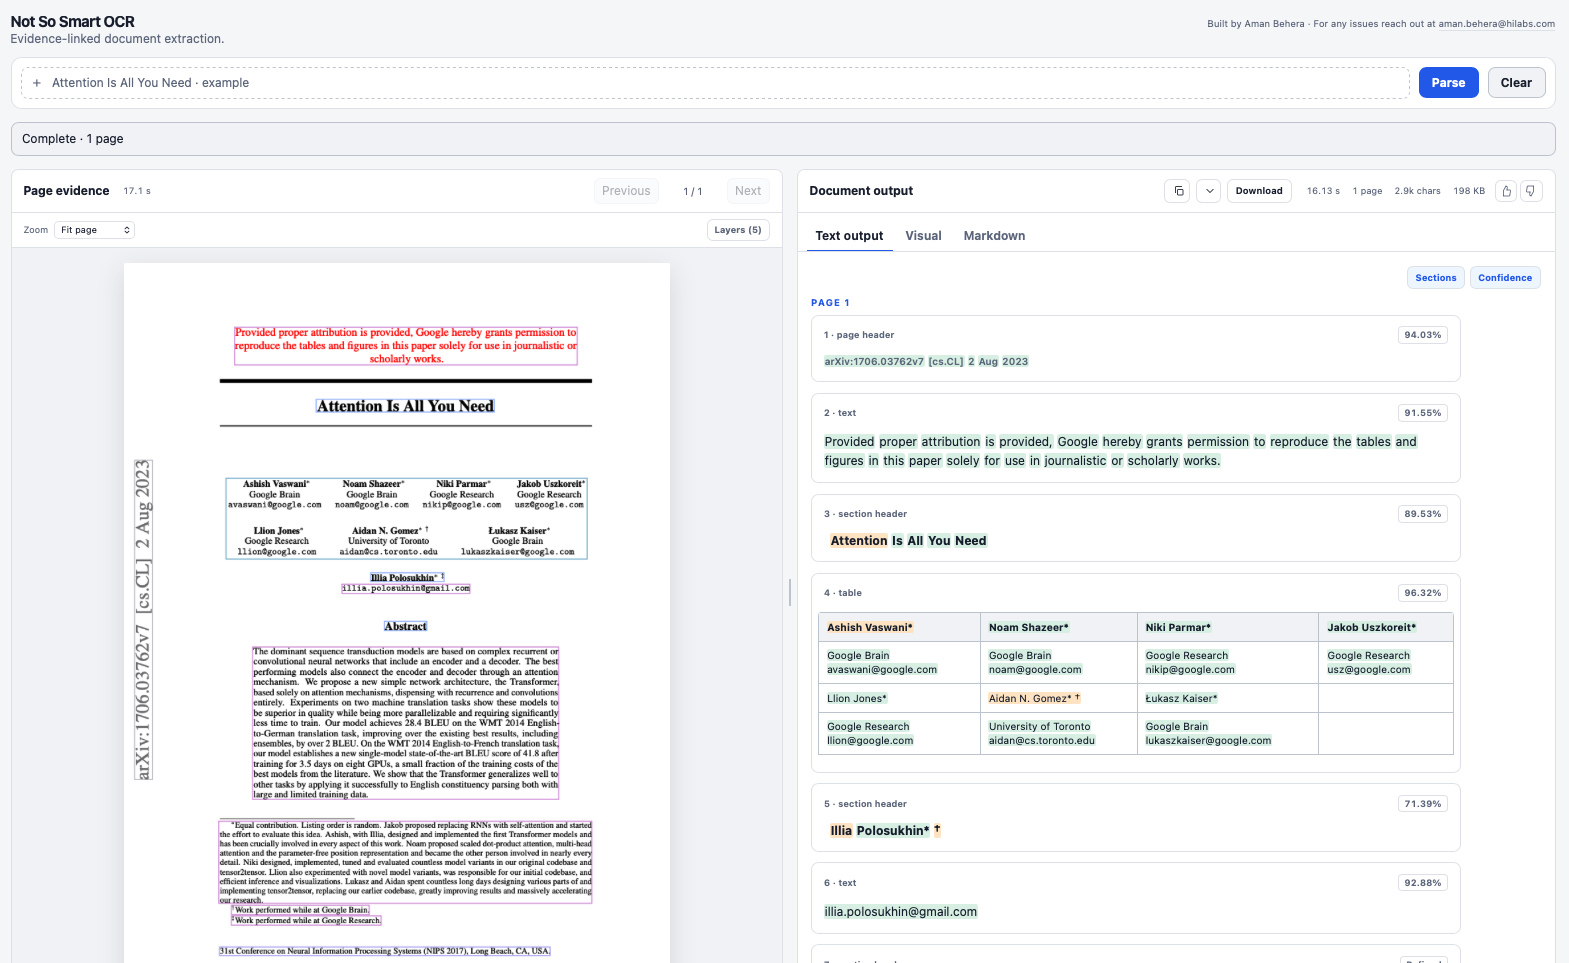
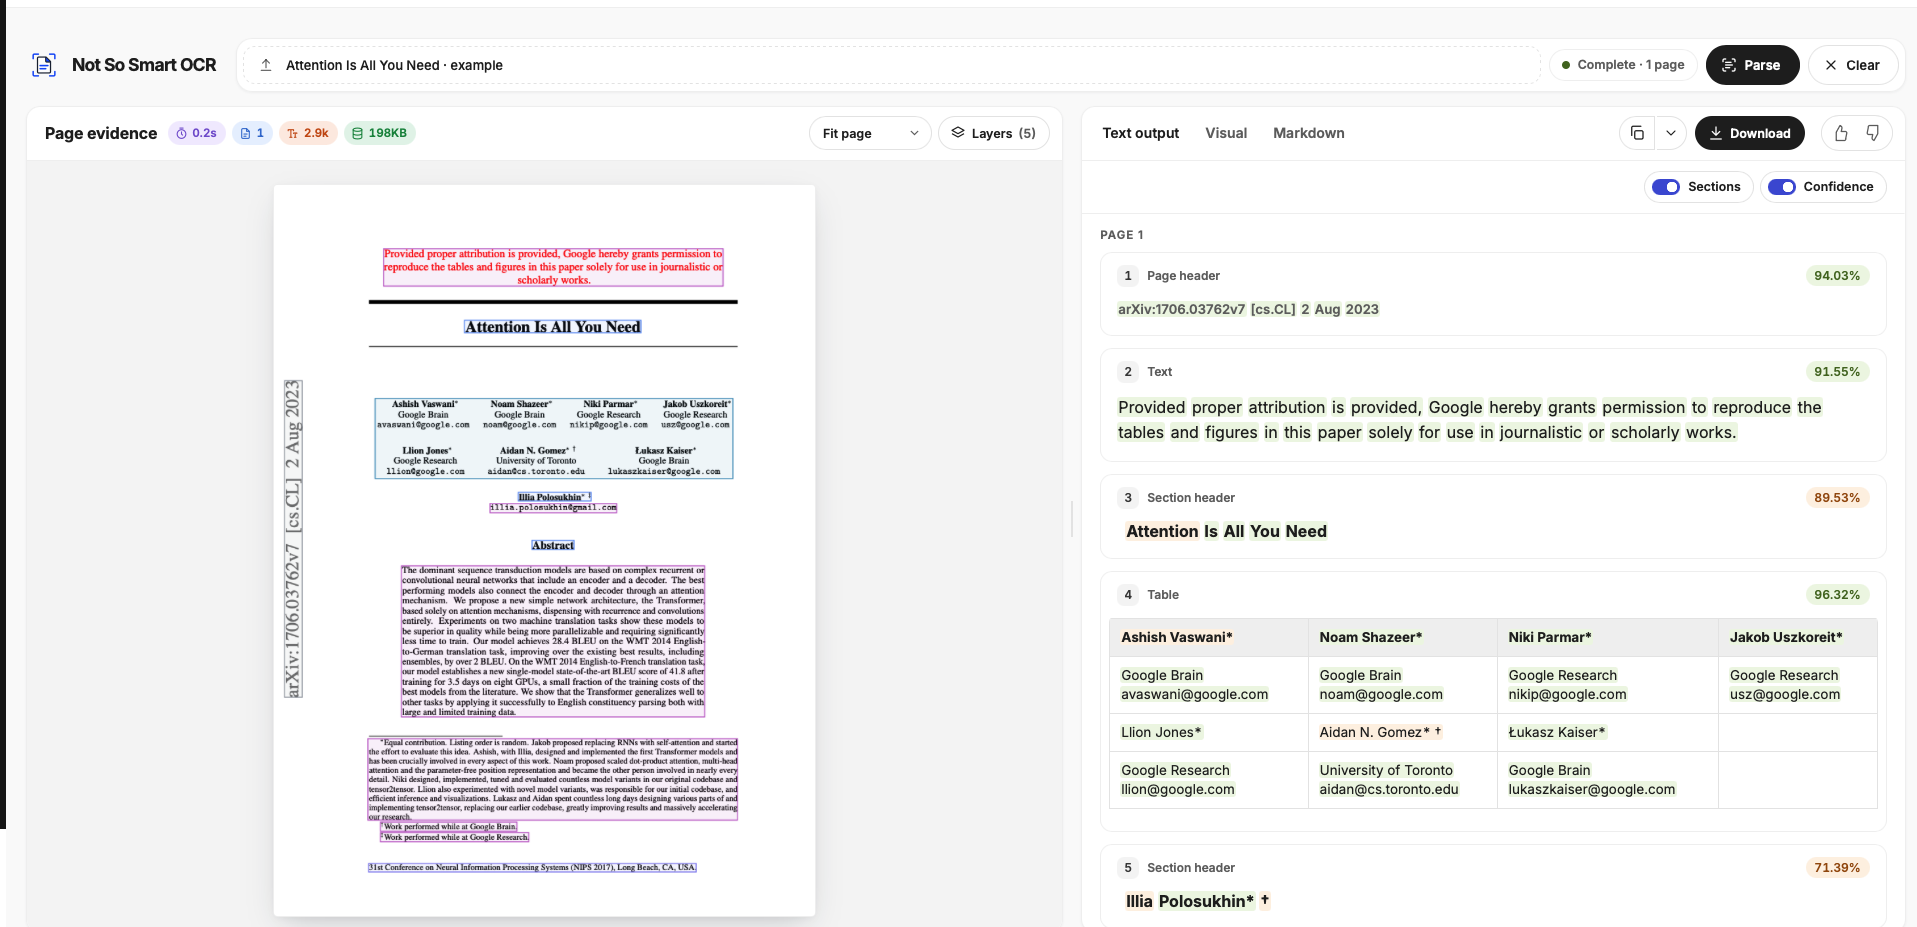
docs: serving, queue, caching and dashboard walkthrough; refresh README
- New walkthrough 09 with load measurements, the outage, and operating advice
- README serving section, launch command, and current screenshots
- Refinement doc reflects per-crop acceptance
- Dashboard stat cards stack so values never overlap their trend line

diff --git a/src/ocr_pipeline/admin.html b/src/ocr_pipeline/admin.html
@@ -82,11 +82,13 @@
     .link { margin-left: auto; padding: 0; border: 0; background: none; color: var(--text-2); font-size: .8rem; font-weight: 500; text-decoration: underline; text-underline-offset: 3px; cursor: pointer; }
 
     .stats { display: grid; grid-template-columns: repeat(6, minmax(0, 1fr)); gap: 12px; margin-bottom: 14px; }
-    .stat { display: grid; grid-template-columns: minmax(0, 1fr) 96px; align-items: end; gap: 4px 12px; padding: 16px 18px; }
-    .stat .label { grid-column: 1 / -1; color: var(--muted); font-size: .8rem; font-weight: 500; }
+    /* Stacked, so a wide value such as $0.0020 never runs into its sparkline. */
+    .stat { display: grid; align-content: start; gap: 6px; padding: 16px 18px; }
+    .stat .label { color: var(--muted); font-size: .8rem; font-weight: 500; }
     .stat .value { font-size: 1.6rem; font-weight: 700; letter-spacing: -.03em; font-variant-numeric: tabular-nums; }
-    .stat svg { width: 96px; height: 30px; overflow: visible; }
-    .stat .delta { grid-column: 1 / -1; color: var(--muted); font-size: .76rem; }
+    .stat svg { width: 100%; height: 28px; overflow: visible; }
+    .stat .delta { color: var(--muted); font-size: .76rem; }
+    .stat .delta:empty { display: none; }
     .delta.up { color: var(--positive); }
     .delta.down { color: var(--danger); }
 
@@ -513,14 +515,12 @@
     }
 
     function sparkline(values, color) {
-      const node = svg("svg", { viewBox: "0 0 96 30", "aria-hidden": "true" });
+      const node = svg("svg", { viewBox: "0 0 96 30", preserveAspectRatio: "none", "aria-hidden": "true" });
       const top = Math.max(0, ...values.map((value) => value || 0));
       const coords = values.map((value, index) => [(index / Math.max(1, values.length - 1)) * 96, top ? 27 - (24 * (value || 0)) / top : 27]);
       const line = coords.map(([x, y]) => `${x.toFixed(1)},${y.toFixed(1)}`).join(" ");
       node.append(svg("polygon", { points: `0,30 ${line} 96,30`, fill: color, opacity: 0.1 }));
-      node.append(svg("polyline", { points: line, fill: "none", stroke: color, "stroke-width": 1.6, "stroke-linejoin": "round", "stroke-linecap": "round" }));
-      const [x, y] = coords.at(-1);
-      node.append(svg("circle", { cx: x, cy: y, r: 2.4, fill: color }));
+      node.append(svg("polyline", { points: line, fill: "none", stroke: color, "stroke-width": 1.6, "stroke-linejoin": "round", "stroke-linecap": "round", "vector-effect": "non-scaling-stroke" }));
       return node;
     }
 
@@ -553,7 +553,7 @@
       if (!caches.length) return "Caching is off";
       // Hit counters restart with the service; the share above comes from the records.
       const used = caches.reduce((all, cache) => all + cache.bytes, 0), limit = caches.reduce((all, cache) => all + cache.max_bytes, 0);
-      return `${bytes(used)} of ${bytes(limit)} in use`;
+      return `${bytes(used)} of ${bytes(limit)}`;
     }
 
     function renderChart() {

diff --git a/docs/walkthroughs/09-serving-queue-cache-dashboard.md b/docs/walkthroughs/09-serving-queue-cache-dashboard.md
@@ -1,0 +1,121 @@
+# Serving under load: queue, streaming, caching, and the dashboard
+
+Measured on 30 September 2026 on one NVIDIA A10G (23 GB), eight CPU cores, and 30 GB of RAM without swap.
+The load figures are one gentle burst against the live demo, not a production percentile benchmark.
+
+## Why this work was needed
+
+The host froze for about 35 minutes on 30 September.
+A second demo and Falcon service ran beside the live stack while a 14-page, 8 MB PDF was being read.
+With no swap, the machine thrashed instead of killing a process; the kernel journal shows no OOM kill, only SSH handshake failures and a watchdog timeout.
+The instance was restarted, which also erased its NVMe instance storage, including the usage history the dashboard read.
+
+Three separate weaknesses were involved:
+
+| Weakness | Consequence |
+| --- | --- |
+| Unbounded waiting parses | Every waiting upload held a worker thread, a spooled file, and rendered pages; enough of them starved the thread pool, so even the page stopped loading. |
+| No memory or liveness guard | A process near the memory limit froze the whole host rather than failing alone. |
+| State on instance storage | Usage records, feedback, and the spending ledger did not survive a restart. |
+
+## A fair queue in front of the GPU
+
+Falcon reads one document at a time; batch composition changes its tokens, so parses are deliberately serial.
+Before this change, waiting parses queued on a `threading.Lock`, which wakes waiters in no set order.
+Under load, a document could wait behind ones that arrived after it.
+
+`FairQueue` in `src/ocr_pipeline/demo.py` hands out tickets in arrival order and serves them in that order.
+The browser learns its place through the progress endpoint and shows "Waiting in line · 2 documents ahead of yours" until reading starts.
+The dashboard header shows the same queue live, for example "Reading 1 · 2 waiting".
+
+Two limits keep a flood from exhausting the host:
+
+- `AdmissionMiddleware` counts running and waiting parses on the event loop and returns `503` with `Retry-After: 30` past `--max-active-parses` (32 by default). It runs before the upload is read, so a turned-away request costs nothing.
+- The worker thread pool is raised to 128, larger than the queue, so page loads, progress polls, and the dashboard always get a thread.
+
+An early version returned `503` past six parses.
+In a burst of ten concurrent uploads, three were turned away, which made the interface feel restrictive; the limit is now a last guard, not the normal way to wait.
+
+| Burst of 10 distinct uploads | Accepted | Turned away | Slowest page load during the burst | Lowest available memory |
+| --- | --- | --- | --- | --- |
+| Limit of 6, unordered lock | 7 | 3 | 0.006 s | 19,739 MiB |
+| Fair queue, limit of 32 | 10, served in order | 0 | 0.086 s | 21,254 MiB |
+
+The ten requests finished between 24 and 83 seconds after submission, because each waited for the ones ahead of it.
+
+## Pages appear as they are read
+
+A long PDF used to show nothing until every page was read.
+The browser now sends a random key with the upload and polls `/api/progress/{key}` every 800 ms.
+Each finished page is published as soon as `process_document` stages it, and its image is served from `/api/progress/{key}/pages/{n}`.
+The finished result replaces the preview, and the page the reader moved to is kept.
+
+The key is generated with `crypto.getRandomValues`.
+`crypto.randomUUID` exists only on HTTPS and localhost, and the demo is also served over plain HTTP on the private network; the first release failed there.
+Runtime exceptions such as that one are now logged to the console, and people see a plain sentence instead of browser jargon.
+
+## Caching
+
+`BoundedCache` in `src/ocr_pipeline/cache.py` is a least-recently-used cache bounded by the bytes it holds.
+Values are pickled and zlib-compressed, entries expire after `--cache-ttl-hours` (24 by default), and `get_or_compute` runs one computation per key, so concurrent requests for the same input wait for its result instead of paying for it twice.
+It lives in memory only; nothing reaches disk, and a restart, which is also how new code is deployed, clears it.
+
+| Cache | Key | Default in the demo |
+| --- | --- | --- |
+| Page cache (`--page-cache-mb`) | SHA-256 of the page image and its sidecar, with the page number | 1024 MB |
+| LLM reply cache (`--qwen-reply-cache-mb`) | SHA-256 of the exact request body; only complete replies are kept | 64 MB |
+
+Earlier measurements on the same host: repeated parses took 0.1 to 0.8 s instead of 9 to 16 s, with identical results.
+Each usage record carries its own cache hits and misses, exact because parses and refinements run one at a time.
+
+## Keeping every usable LLM answer
+
+Qwen 3.7 Flash rereads only the crops routed to it, in one request per page.
+Three kinds of imperfect replies used to cost the whole page:
+
+| Reply | Before | Now |
+| --- | --- | --- |
+| Cut off at the token limit | Rejected | Crops that closed before the cut are kept |
+| One malformed record (Qwen once sent `null` for a control's `group_label`) | Whole reply rejected by the schema | Every record that passes the crop schema on its own is kept; the malformed crop keeps its OCR text |
+| Provider error inside a streamed reply (HTTP status still 200) | Parsed as an empty reply | Treated as a provider error and retried like a 5xx |
+
+Before these fixes, two of the six featured examples finished with refinement failed; afterwards all six completed.
+A crop the LLM could not improve keeps its OCR text and confidence badge, so the page reports "Complete" rather than a warning.
+
+## Sessions and deferred refinement
+
+The server keeps the 96 most recently used sessions.
+During a burst, a session whose LLM refinement was still running could be evicted; its folder was deleted, the background job then failed silently inside its executor, and the browser waited on a 404.
+Sessions awaiting refinement are now never evicted, and the job logs any failure and always releases the browser's long poll.
+
+## Usage log and admin dashboard
+
+With `--usage-root`, every parse stores its metrics, routing details, a 1400 px page image, and a 360 px thumbnail, written atomically and pruned past `--usage-retention` records (2000 by default).
+Below 2 GB of free disk, a record keeps its metrics but skips the images.
+The directory is private to the service user.
+
+`/admin` exists only when the environment variable named by `--admin-token-env` (default `OCR_ADMIN_TOKEN`) is set.
+It accepts the token as a cookie from its sign-in form or as a bearer header, compared in constant time.
+
+![Admin dashboard with requests, pages, users, latency, spend, cache use, live queue, and routing reasons](../../artifacts/demo/admin-dashboard.png)
+
+The overview shows requests, pages, users, median time, LLM spend, and the share served from cache, each with a trend line.
+The usage chart separates requests read by OCR alone from those that also had regions checked by the LLM.
+"Where the time goes" splits the average request into OCR, LLM, and waiting and upload, so the parts add up to the whole.
+Activity, logs, and feedback views follow; each request opens a panel with its page, the regions routed to the LLM and why, confidence scores, and the OCR reading each accepted answer replaced.
+
+## Operations
+
+The deployed host runs one supervised stack: the Falcon service, the web app, and a memory guard.
+
+- A supervisor restarts a service when it exits, or when its health URL stops answering for a minute after it had answered once.
+- A memory guard kills the largest supervised service when available memory falls below 3 GB, before the host starts thrashing; its supervisor starts it again. Supervised services also get `oom_score_adj` 1000, so the kernel takes them before `sshd` if it ever acts.
+- Usage records, feedback, and the spending ledger live on the root disk; only models, caches, and scratch files use instance storage.
+- Deploying new web-app code restarts only the web app, which answers again within about a second while Falcon stays warm, then replays the featured examples to refill the caches.
+- Benchmarks do not run beside the live stack.
+
+## Remaining limits
+
+The queue is in one process; a second web-app process would need a shared queue.
+A client that disconnects while waiting is still read when its turn comes.
+Queue position is shown only after the upload is received and its pages are rendered.

diff --git a/docs/walkthroughs/03-confidence-exports-and-review.md b/docs/walkthroughs/03-confidence-exports-and-review.md
@@ -201,7 +201,7 @@ These sources were inspected on 9 September 2026. No new model-quality benchmark
 
 The request lists crop IDs and, for selected tables, independently predicted row counts, column counts and merged-cell spans; source coordinates stay local for reconstruction. The model reads the labeled pixels without repeating that geometry in its prompt. Each crop uses existing detected bounds. Every crop records its source ID and routing reasons locally. Existing repetition/date validation flags and unresolved recognition can route individual regions. An isolated low decoder token score does not trigger an API request: it is uncalibrated, and in the local routing audit that policy would have sent nearly every page. Scores remain diagnostic evidence until routing quality is measured against verified errors. A missed or undersized detection still needs a detector/ownership repair; selective cropping cannot recover pixels outside its input.
 
-The caller supplies the model and `OPENROUTER_API_KEY`; zero-data retention remains enabled by default. Any retention exception must be explicitly authorized for the data being processed. Raw and refined outputs should be saved separately, including failed requests. Crop recognition can still misread handwriting, associate a note with the wrong row, or omit content. Replacement applies by source ID in a separate rendering view, refreshing affected layout owners while keeping source evidence unchanged. Missing or duplicate crop IDs invalidate the response. Other validation failures are isolated by crop: validated replacements are retained, rejected crops keep their canonical evidence, and mixed results return `partial` with accepted and rejected crop IDs. A failed owned-row request does not discard a completed primary request or its measured cost. A recovered row control enters canonical text only when its box has one physical evidence owner; ambiguous candidates remain unresolved JSON evidence. A result with no accepted crops remains `invalid`; it must not be presented as successful refinement. Selected tables also pass through the existing [TableFormer adapter](../../src/ocr_pipeline/tableformer_structure.py), which predicts structure from the crop independently of Qwen. Disagreement in rows, columns or spans rejects that table replacement. A failed structure prediction is recorded with its error and any invalid predicted grid, and cannot validate a table; it does not discard valid recognition from other crops. Neither agreement nor valid markup proves that cell text is correct. TableFormer can itself miss a column; the pipeline does not trim the Qwen output to force agreement.
+The caller supplies the model and `OPENROUTER_API_KEY`; zero-data retention remains enabled by default. Any retention exception must be explicitly authorized for the data being processed. Raw and refined outputs should be saved separately, including failed requests. Crop recognition can still misread handwriting, associate a note with the wrong row, or omit content. Replacement applies by source ID in a separate rendering view, refreshing affected layout owners while keeping source evidence unchanged. A crop left out of the reply, answered twice, or returned as a malformed record keeps its canonical evidence while the other crops are still used; a reply cut off at its token limit keeps the crops it finished. Other validation failures are also isolated by crop: validated replacements are retained, rejected crops keep their canonical evidence, and mixed results return `partial` with accepted and rejected crop IDs. A failed owned-row request does not discard a completed primary request or its measured cost. A recovered row control enters canonical text only when its box has one physical evidence owner; ambiguous candidates remain unresolved JSON evidence. A result with no accepted crops remains `invalid`; it must not be presented as successful refinement. Selected tables also pass through the existing [TableFormer adapter](../../src/ocr_pipeline/tableformer_structure.py), which predicts structure from the crop independently of Qwen. Disagreement in rows, columns or spans rejects that table replacement. A failed structure prediction is recorded with its error and any invalid predicted grid, and cannot validate a table; it does not discard valid recognition from other crops. Neither agreement nor valid markup proves that cell text is correct. TableFormer can itself miss a column; the pipeline does not trim the Qwen output to force agreement.
 
 This optional path requires `docling-ibm-models` and downloads the pinned TableFormer weights on first use. The default CPU predictor is reused across requests; callers can supply a configured `TableFormerStructure` instance. It does not enable Docling document conversion or Table Transformer in the workbench. Use the recognition source image, not a reduced UI preview. The private PDF runner now renders the source at the saved OCR frame dimensions. Input crops, independently predicted geometry, source pixel dimensions and model provenance are saved separately.
 

diff --git a/README.md b/README.md
@@ -8,7 +8,7 @@
 
 Text · Tables · Handwriting · Formulas · Source-linked review
 
-[Examples](#examples) · [Pipeline](#pipeline) · [Walkthroughs](#walkthroughs)
+[Examples](#examples) · [Pipeline](#pipeline) · [Serving](#serving-and-dashboard) · [Walkthroughs](#walkthroughs)
 
 </div>
 
@@ -28,6 +28,8 @@ OCR turns text in images, PDFs, and scanned or handwritten documents into editab
 - Saved edits update Text output, Markdown, and JSON together while retaining the original reading in the evidence history.
 - Fit the full page, navigate multi-page documents, and use the responsive light or dark interface.
 - Save feedback with its image and result, retaining 1,000 records locally.
+- Watch long PDFs fill in page by page, and see your place in line while other documents are read.
+- Follow usage, routing, latency, spend, and the live queue in a separate, token-protected admin dashboard.
 
 ## Examples
 
@@ -49,7 +51,7 @@ OCR turns text in images, PDFs, and scanned or handwritten documents into editab
 | --- | --- |
 | ![Visual inspector with the source crop, transcription, and score provenance](artifacts/demo/visual-inspector.png) | ![Source-linked editing with an option to keep uncertain text unresolved](artifacts/demo/region-editing.png) |
 
-The workbench, academic paper, source-selection, and inspector screenshots were updated on 29 September 2026.
+The workbench and inspector screenshots were updated on 30 September 2026; the academic paper and source-selection screenshots on 29 September 2026.
 Screenshots show actual output, including errors.
 Overlapping regions can still produce duplicates; handwriting, numeric fields, and reading order remain imperfect.
 Model scores are uncalibrated, and a hosted reread may not provide a recognition score.
@@ -80,6 +82,30 @@ Four paired native OCR comparisons preserved the complete response except timing
 Single-page hosted latency remains a bottleneck; see the [measurements and preservation limits](docs/walkthroughs/latency-preservation.md).
 The UI loads source crops on demand; downloaded JSON retains their original PNG data.
 
+## Serving and dashboard
+
+Parses reach the GPU one at a time, in arrival order.
+Waiting uploads see how many documents are ahead of them; past 32 running or waiting parses, new uploads get a `503` with `Retry-After`.
+Long PDFs show each page as soon as it is read.
+In a burst of ten concurrent uploads on the A10G host, all ten were served in order, and the page still loaded in under 0.09 s.
+
+Two in-memory, byte-bounded caches with a time limit reuse page readings and complete LLM replies for byte-identical input; repeated parses took 0.1 to 0.8 s instead of 9 to 16 s, with identical results.
+An LLM reply that is cut off or has one malformed record keeps every crop it answered correctly; a provider failure in the middle of a streamed reply is retried.
+
+`/admin` is off unless an admin token is configured.
+It shows requests, pages, users, latency split into OCR, LLM, and waiting time, LLM spend, cache use, routing reasons, and the live queue, with each request's page, routed regions, and confidence scores.
+
+![Admin dashboard](artifacts/demo/admin-dashboard.png)
+
+```bash
+OPENROUTER_API_KEY=... OCR_ADMIN_TOKEN=... python experiments/serve_gpu_demo.py --falcon-layout-url http://127.0.0.1:8196 \
+  --qwen-crops --qwen-budget-usd 5 --usage-root ~/ocr-state/usage --feedback-root ~/ocr-state/feedback \
+  --page-cache-mb 1024 --qwen-reply-cache-mb 64 --max-active-parses 32
+```
+
+Keep usage records, feedback, and the spending ledger on persistent storage; instance storage is erased when a cloud instance stops.
+See [Serving under load](docs/walkthroughs/09-serving-queue-cache-dashboard.md) for measurements, the failure that motivated these changes, and operating advice.
+
 ## Walkthroughs
 
 Walkthroughs grounded in the code, technical reports, and measured runs:
@@ -94,6 +120,7 @@ Walkthroughs grounded in the code, technical reports, and measured runs:
 | [Document-parsing strategies](docs/walkthroughs/06-document-parsing-strategies.md) | Seven OCR systems and their architectural trade-offs |
 | [From research to implementation](docs/walkthroughs/07-research-to-implementation.md) | What we reused, what each paper taught us, and observed improvements |
 | [Fidelity repairs and routing results](docs/walkthroughs/08-fidelity-and-routing.md) | Current runtime, preserved table content, paired Qwen comparison, and remaining failures |
+| [Serving under load](docs/walkthroughs/09-serving-queue-cache-dashboard.md) | Fair queue, page streaming, caching, robust LLM replies, the admin dashboard, and operations |
 
 **Hardware:** exercised on a 24 GB-class NVIDIA A10G. Minimum VRAM is not established; see the [memory breakdown](docs/walkthroughs/04-model-internals-and-hardware.md#vram-and-performance).
 
